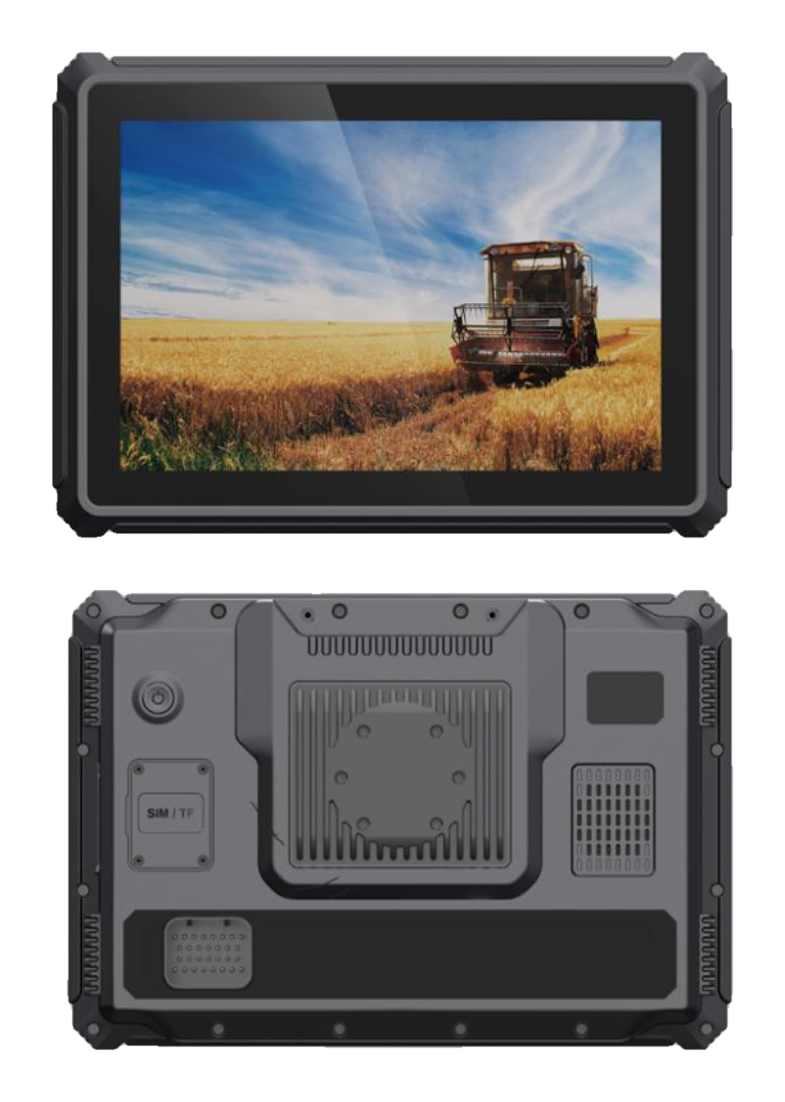
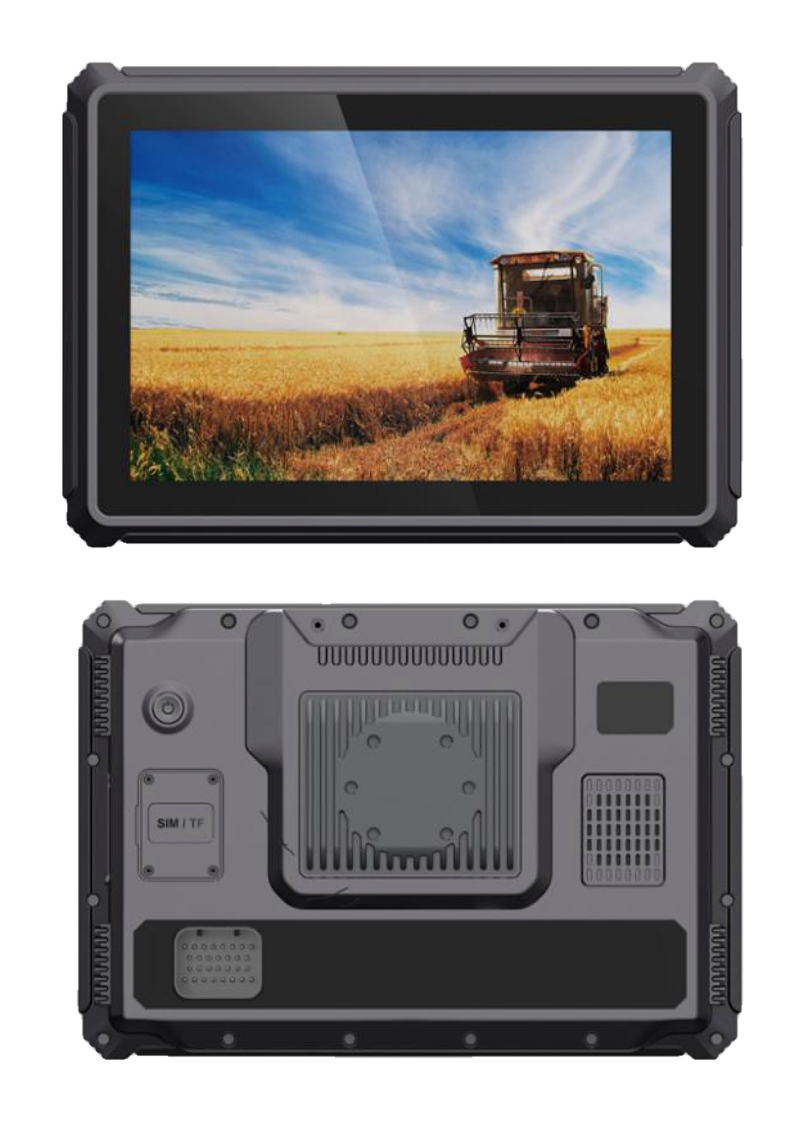
feat(site): trata fotos dos tablets como produto e adiciona verso do comercial
- Comercial: composicao frente+verso (inclui a bolinha de montagem/conector)
- Tratamento estudio nas 3 fotos: recorte HQ (isnet+fill), contraste/cor/nitidez
- Card de produto elevado: spotlight superior, glow dourado na base, sombra profunda

Changed region(s): [[0.0611, 0.0309, 0.9478, 0.4936], [0.0611, 0.5245, 0.9478, 0.9564]]

diff --git a/app/[locale]/solucoes/page.tsx b/app/[locale]/solucoes/page.tsx
@@ -89,13 +89,32 @@ export default async function SolutionsPage({ params }: Props) {
                           key={tier.name}
                           className="group flex flex-col rounded-2xl border border-[#222] bg-[#111] overflow-hidden transition-all duration-300 hover:border-[#D4A847]/50 hover:-translate-y-1"
                         >
-                          {/* Product image */}
-                          <div className="relative h-52 bg-gradient-to-b from-[#1A1A1A] to-[#0E0E0E] flex items-center justify-center p-6">
+                          {/* Product image — studio stage */}
+                          <div className="relative h-64 overflow-hidden flex items-center justify-center p-7 bg-gradient-to-b from-[#191919] to-[#0C0C0C]">
+                            {/* soft top light */}
                             <div
-                              className="absolute inset-0 opacity-0 group-hover:opacity-100 transition-opacity duration-300"
+                              className="absolute inset-0"
                               style={{
                                 background:
-                                  "radial-gradient(circle at 50% 45%, rgba(212,168,71,0.16), transparent 65%)",
+                                  "radial-gradient(120% 80% at 50% 30%, rgba(255,255,255,0.06), transparent 60%)",
+                              }}
+                              aria-hidden="true"
+                            />
+                            {/* gold stage glow at base */}
+                            <div
+                              className="absolute inset-x-0 bottom-0 h-24"
+                              style={{
+                                background:
+                                  "radial-gradient(60% 100% at 50% 100%, rgba(212,168,71,0.12), transparent 70%)",
+                              }}
+                              aria-hidden="true"
+                            />
+                            {/* gold glow on hover */}
+                            <div
+                              className="absolute inset-0 opacity-0 group-hover:opacity-100 transition-opacity duration-500"
+                              style={{
+                                background:
+                                  "radial-gradient(circle at 50% 45%, rgba(212,168,71,0.18), transparent 62%)",
                               }}
                               aria-hidden="true"
                             />
@@ -103,8 +122,12 @@ export default async function SolutionsPage({ params }: Props) {
                               src={tier.image}
                               alt={tier.name}
                               width={320}
-                              height={200}
-                              className="relative max-h-full w-auto object-contain drop-shadow-xl transition-transform duration-300 group-hover:scale-105"
+                              height={240}
+                              className="relative z-10 max-h-full w-auto object-contain transition-transform duration-500 group-hover:scale-[1.06]"
+                              style={{
+                                filter:
+                                  "drop-shadow(0 18px 30px rgba(0,0,0,0.55))",
+                              }}
                             />
                           </div>
 
